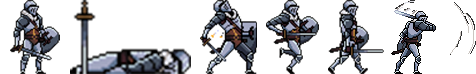
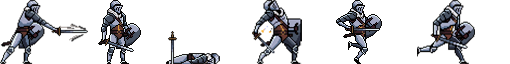
Add animations

diff --git a/De-Mysteriis-Dom-Sathanas/Game.cpp b/De-Mysteriis-Dom-Sathanas/Game.cpp
@@ -90,7 +90,7 @@ void Init() {
 	Level_2Theme = LoadSound("Resources\\Level_2Theme.wav");
 	Level_3Theme = LoadSound("Resources\\Level_3Theme.wav");
 
-	player = Player({ 50.0f , 950.0f });
+	player = Player({ 50.0f , 900.0f });
 	_playerCamera;
 
 	pugalo = Pugalo({ 2150.0f , 850.0f});
@@ -125,13 +125,14 @@ void EnemyDead(Enemy &enemy) {
 }
 
 void EnemyAttacksThePlayer(Enemy &enemy) {
-	if (player.GetPlayerPositionX() + 64 >= enemy.GetEnemyPositionX() - 100
-		&& player.GetPlayerPositionX() <= enemy.GetEnemyPositionX() + 164
-		&& player.GetPlayerPositionY() >= enemy.GetEnemyPositionY() - 40
-		&& player. GetPlayerPositionY() + 64 <= enemy.GetEnemyPositionY() + 104 && enemy.GetEnemyHealth() > 0){
+	if (player.GetPlayerHealth() > 0 && player.GetPlayerPositionX() + 128 >= enemy.GetEnemyPositionX() - 100
+		&& player.GetPlayerPositionX() <= enemy.GetEnemyPositionX() + 228
+		&& player.GetPlayerPositionY() >= enemy.GetEnemyPositionY() - 70
+		&& player. GetPlayerPositionY() + 198 <= enemy.GetEnemyPositionY() + 198 && enemy.GetEnemyHealth() > 0){
 		if (EventTriggered(1.0f)) {
 			PlaySound(PlayerTakesDamage);
 			player.PlayerTakesDamageFromTheEnemy(enemy.GetEnemyDamage());
+			player.SetFrameRecX(510);
 		}
 	}
 }
@@ -153,24 +154,26 @@ void SoundEnemyTakesDamage() {
 }
 
 void PlayerAttacksEnemy(Enemy &enemy) {
-	if (player.GetPlayerPositionX() + 64 >= enemy.GetEnemyPositionX() - 70
-		&& player.GetPlayerPositionX() <= enemy.GetEnemyPositionX() + 134
-		&& player.GetPlayerPositionY() >= enemy.GetEnemyPositionY() - 40
-		&& player.GetPlayerPositionY() + 64 <= enemy.GetEnemyPositionY() + 104) {
+	if (player.GetPlayerHealth() > 0 && player.GetPlayerPositionX() + 128 >= enemy.GetEnemyPositionX() - 80
+		&& player.GetPlayerPositionX() <= enemy.GetEnemyPositionX() + 208
+		&& player.GetPlayerPositionY() >= enemy.GetEnemyPositionY() - 70
+		&& player.GetPlayerPositionY() + 128 <= enemy.GetEnemyPositionY() + 198) {
 		if (IsMouseButtonPressed(MOUSE_BUTTON_LEFT) && EventTriggered(0.5f)) {
 			SoundEnemyTakesDamage();
 			enemy.EnemyTakesDamageFromThePlayer(player.GetPlayerDamage());
+			player.SetFrameRecX(0);
 		}
 	}
 }
 
 void PlayerAttacksPugalo(Pugalo& pugalo) {
-	if (player.GetPlayerPositionX() + 64 >= pugalo.GetPugaloPositionX() - 70
-		&& player.GetPlayerPositionX() <= pugalo.GetPugaloPositionX() + 134
-		&& player.GetPlayerPositionY() >= pugalo.GetPugaloPositionY() - 40) {
+	if (player.GetPlayerHealth() > 0 && player.GetPlayerPositionX() + 128 >= pugalo.GetPugaloPositionX() - 70
+		&& player.GetPlayerPositionX() <= pugalo.GetPugaloPositionX() + 198
+		&& player.GetPlayerPositionY() >= pugalo.GetPugaloPositionY() - 198) {
 		if (IsMouseButtonPressed(MOUSE_BUTTON_LEFT) && EventTriggered(0.5f)) {
 			SoundEnemyTakesDamage();
 			pugalo.SetFrameRecX(124);
+			player.SetFrameRecX(0);
 		}
 		if (EventTriggered(1.0f)) {
 			pugalo.SetFrameRecX(0);
@@ -179,11 +182,11 @@ void PlayerAttacksPugalo(Pugalo& pugalo) {
 }
 
 void EnemyGoesToThePlayer(Enemy &enemy) {
-	if (player.GetPlayerPositionX() + 64 >= enemy.GetEnemyPositionX() - 250
-		&& player.GetPlayerPositionX() + 64 <= enemy.GetEnemyPositionX() + 64 && enemy.GetEnemyHealth() > 0) {
+	if (player.GetPlayerPositionX() + 128 >= enemy.GetEnemyPositionX() - 250
+		&& player.GetPlayerPositionX() + 128 <= enemy.GetEnemyPositionX() + 128 && enemy.GetEnemyHealth() > 0) {
 		enemy.EnemyMoveX(-5.5f);
 	}
-	if (player.GetPlayerPositionX() + 64 <= enemy.GetEnemyPositionX() + 250
+	if (player.GetPlayerPositionX() + 128 <= enemy.GetEnemyPositionX() + 378
 		&& player.GetPlayerPositionX() >= enemy.GetEnemyPositionX() && enemy.GetEnemyHealth() > 0) {
 		enemy.EnemyMoveX(5.5f);
 	}
@@ -196,8 +199,8 @@ bool EnemyOnGround(Enemy &enemy, Ground& ground) {
 
 bool PlayerOnGround(Player player, Ground& ground) {
 	player.SetPlayerCanJump(true);
-	return (player.GetPlayerPositionX() + 64 >= ground.GetGroundPositionX() && player.GetPlayerPositionX() <= ground.GetGroundPositionX() + ground.GetGroundWidth()
-		&& player.GetPlayerPositionY() + 64 >= ground.GetGroundPositionY() + 15 && player.GetPlayerPositionY() <= ground.GetGroundPositionY() + ground.GetGroundHeight());
+	return (player.GetPlayerPositionX() + 128 >= ground.GetGroundPositionX() && player.GetPlayerPositionX() <= ground.GetGroundPositionX() + ground.GetGroundWidth()
+		&& player.GetPlayerPositionY() + 128 >= ground.GetGroundPositionY() + 15 && player.GetPlayerPositionY() <= ground.GetGroundPositionY() + ground.GetGroundHeight());
 }
 
 void PlayerCanWalk(Player player, Ground &ground) {
@@ -272,7 +275,7 @@ void MapLogic() {
 				player.GetPlayerPositionY() >= door.DoorPositionY() && player.GetPlayerPositionY() + 64 <= door.DoorPositionY() + 128) {
 				player.PlayerTakesDamageFromTheEnemy(-(100 - player.GetPlayerHealth()));
 				_currentScreen = LEVEL_3;
-				player.SetPlayerPosition({ 50.0f , 950.0f });
+				player.SetPlayerPosition({ 50.0f , 900.0f });
 			}
 		}
 		break;
@@ -356,6 +359,7 @@ void Update() {
 	
 	if (player.IsPlayerJump() && !player.PlayerMaxJump() && player.GetPlayerCanJump()) {
 		player.MoveVertically();
+		player.SetFrameRecX(680);
 	}
 	else if (PlayerOnGround(player, mainGroundFloor)) {
 		player.SetPlayerCanJump(true);

diff --git a/De-Mysteriis-Dom-Sathanas/Player.cpp b/De-Mysteriis-Dom-Sathanas/Player.cpp
@@ -1,5 +1,4 @@
 #include "Player.h"
-
 void Player::SetRandomDamage()
 {
 	_damage = 0;
@@ -26,7 +25,9 @@ Player::Player() {
 
 Player::Player(Vector2 playerPosition) {
 	_playerPosition = playerPosition;
-	_playerTexture = LoadTexture("Resources\\PlayerText.png");
+	_playerTexture = LoadTexture("Resources\\Player_atlas.png");
+	_playerTexture.height *= 2;
+	_playerTexture.width *= 2;
 	_playerFont = LoadFont("Resources\\KHTitle.otf");
 	_playerDeath = LoadSound("Resources\\PlayerDeath.wav");
 }
@@ -82,7 +83,12 @@ void Player::PlayerController() {
 	if (IsKeyPressed(KEY_SPACE) && _health > 0 && !IsKeyPressedRepeat(KEY_SPACE) && _playerCanJump) {
 		_playerJump = true;
 	}
-
+	if ((IsKeyDown(KEY_A) || IsKeyDown(KEY_D)) && _health > 0) {
+		SetFrameRecX(850);
+	}
+	else if(!IsPlayerJump() && _health > 0 && !IsMouseButtonPressed(MOUSE_BUTTON_LEFT) && EventTriggered(0.5f)) {
+		SetFrameRecX(170);
+	}
 	_playerVelocity.y = 0;
 	_playerVelocity.x = 0;
 }
@@ -148,5 +154,21 @@ void Player::PlayerDeath(){
 		DrawTextEx(_playerFont, "YOU ARE DEAD", { _playerPosition.x - 200, _playerPosition.y - 500 }, 50, 4, WHITE);
 		DrawTextEx(_playerFont,"PRESS ESC TO QUIT", { _playerPosition.x - 270, _playerPosition.y - 450}, 50, 4,  WHITE);
 		PlaySound(_playerDeath);
+		SetFrameRecX(340);
 	}
+}
+
+void Player::SetFrameRecX(float x){
+	_frameRectangle.x = x;
+}
+
+bool Player::EventTriggered(double interval){
+	double currentTime = GetTime();
+	if (currentTime - Player::_lastUpdateTime >= interval)
+	{
+		_lastUpdateTime = currentTime;
+		return true;
+	}
+	return false;
+
 }

diff --git a/De-Mysteriis-Dom-Sathanas/Player.h b/De-Mysteriis-Dom-Sathanas/Player.h
@@ -29,10 +29,11 @@ private:
 
 	Texture2D _playerTexture;
 	Font _playerFont;
-	Rectangle _frameRectangle{ 0.0f, 0.0f, 64.0f, 64.0f };
+	Rectangle _frameRectangle{ 170.0f, 0.0f, 170.0f, 128.0f };
 	
 	Sound _playerDeath;
 public:
+	double _lastUpdateTime = 0;
 	Player();
 
 	Player(Vector2 playerPosition);
@@ -65,4 +66,7 @@ public:
 	void PlayerTakesDamageFromTheEnemy(int damage);
 
 	void PlayerDeath();
+
+	void SetFrameRecX(float x);
+	bool EventTriggered(double interval);
 };
